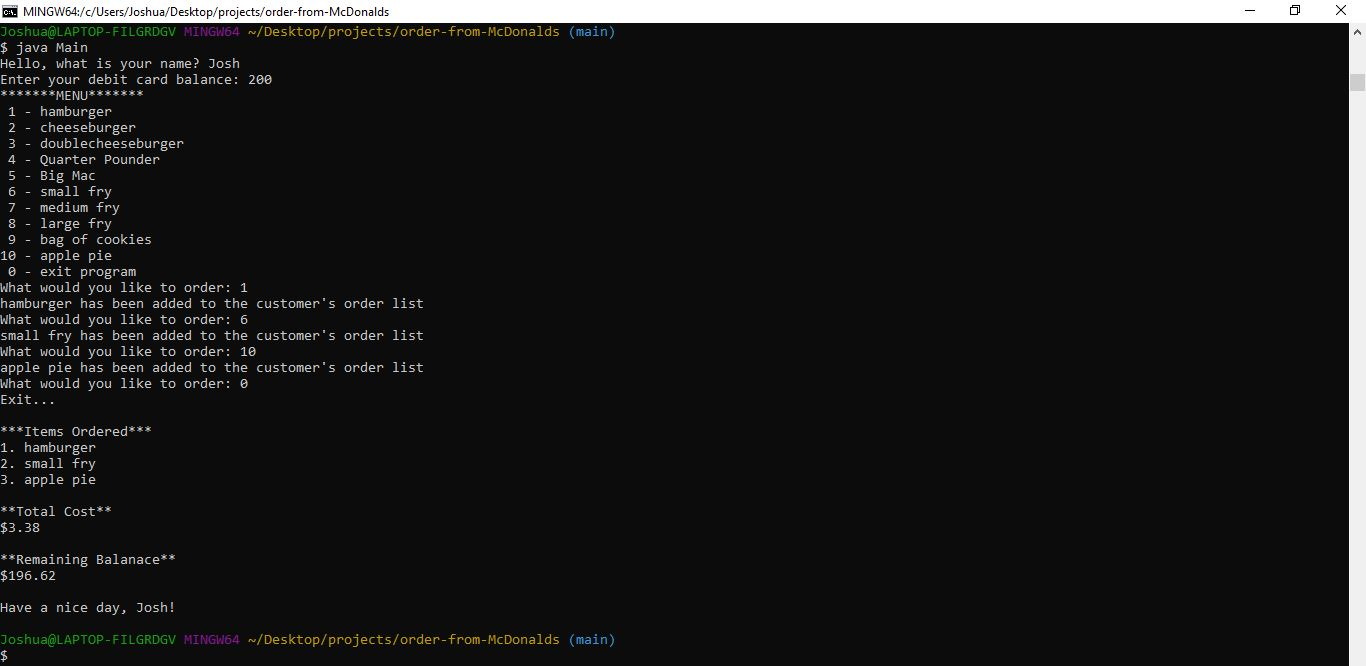
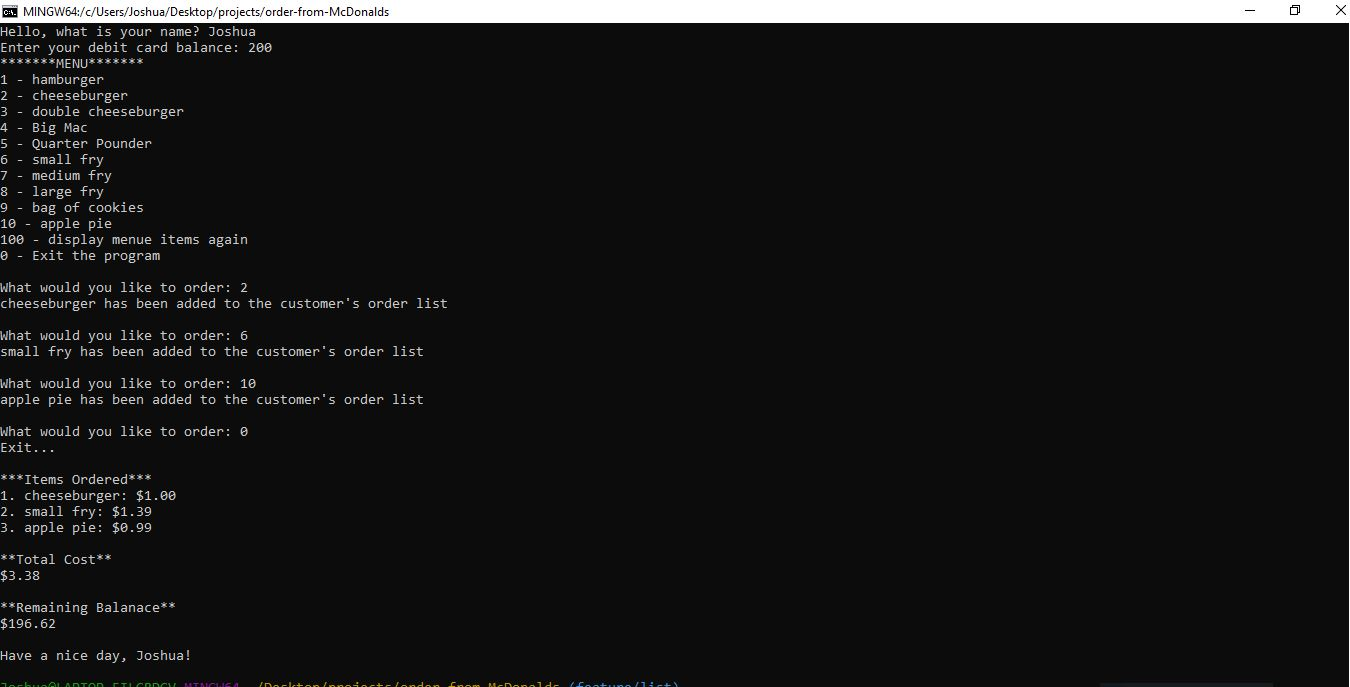
change image

Changed region(s): [[0.0, 0.0, 0.4978, 1.0], [0.9333, 0.0, 1.0, 1.0]]

diff --git a/Main.java b/Main.java
@@ -57,7 +57,7 @@ public class Main {
         displayMenuChoices();
 
         do {
-            System.out.print("What would you like to order: ");
+            System.out.print("\nWhat would you like to order: ");
             choice = input.nextInt();
             // loop through options
             for(int i = 1; i < items.size(); i++) {
